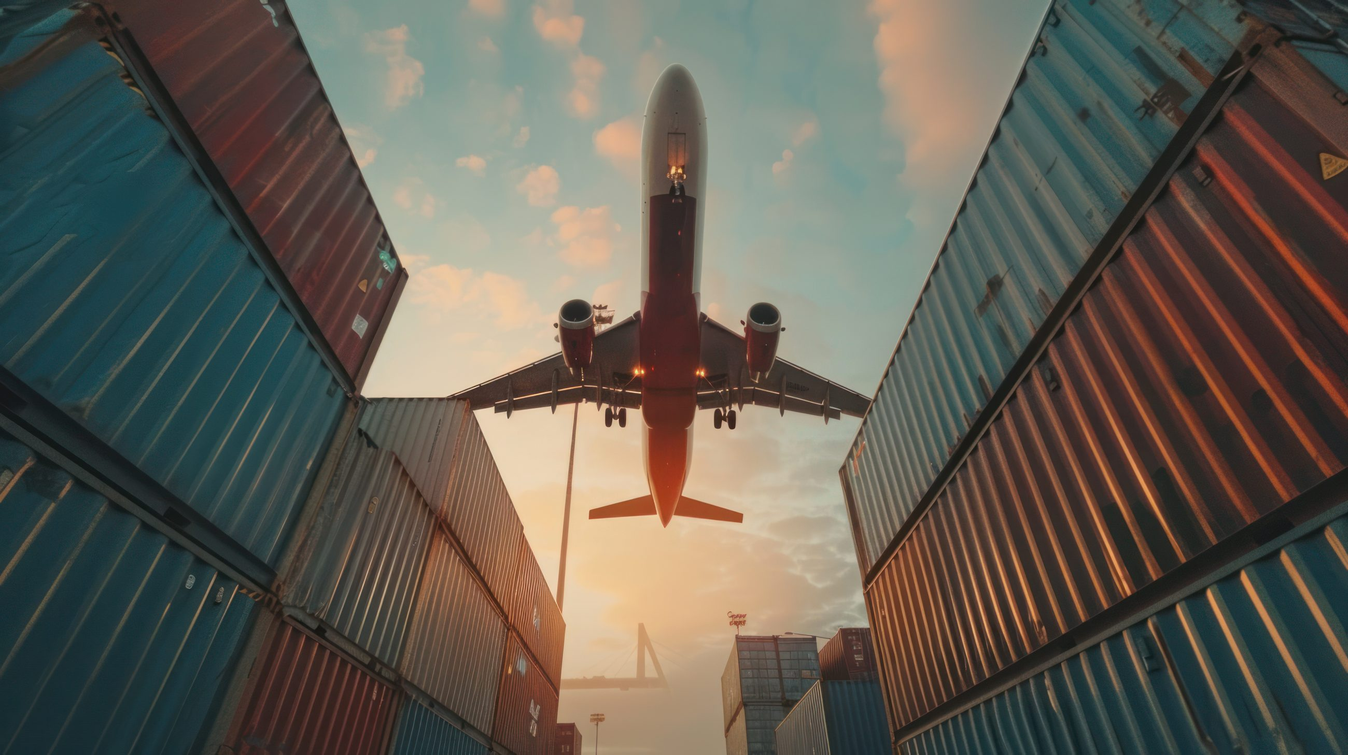
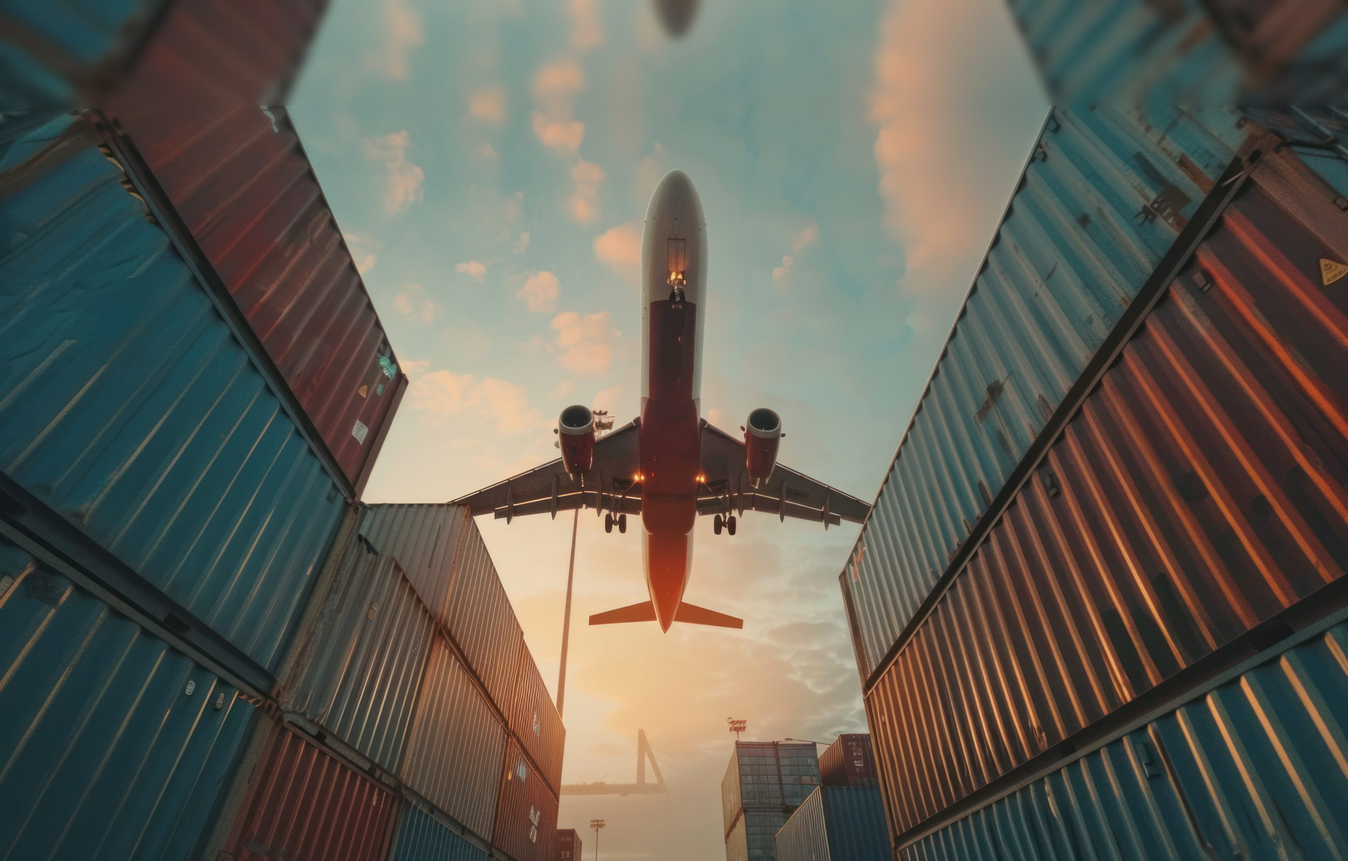
Extender la foto del hero hacia arriba para bajar el avion
La toma no tiene cielo por encima del avion: en el borde superior de la
foto ya empieza la trompa, asi que con el recorte no habia mas margen.
Se extiende el lienzo un 14% espejando la franja de arriba y
desenfocandola, con un fundido entre las dos partes. Las lineas de los
contenedores continuan sin costura y esa banda queda ademas detras del
header y del degradado.

El recorte pasa a arrancar en el borde superior de la foto.

Claude-Session: https://claude.ai/code/session_015FkNtqozrfAhhRiHRyrEhu

diff --git a/src/components/blocks/hero-home.tsx b/src/components/blocks/hero-home.tsx
@@ -29,9 +29,9 @@ export function HeroHome() {
         fill
         priority
         sizes="100vw"
-        /* En desktop el recorte muestra la parte alta de la foto: más al centro
-           la trompa del avión se corta contra el borde superior. */
-        className="cc-hero-photo object-cover object-center md:object-[50%_4%]"
+        /* En desktop el recorte arranca en el borde superior de la foto, que
+           trae una franja extendida para que la trompa del avión respire. */
+        className="cc-hero-photo object-cover object-center md:object-top"
       />
       <div
         aria-hidden
